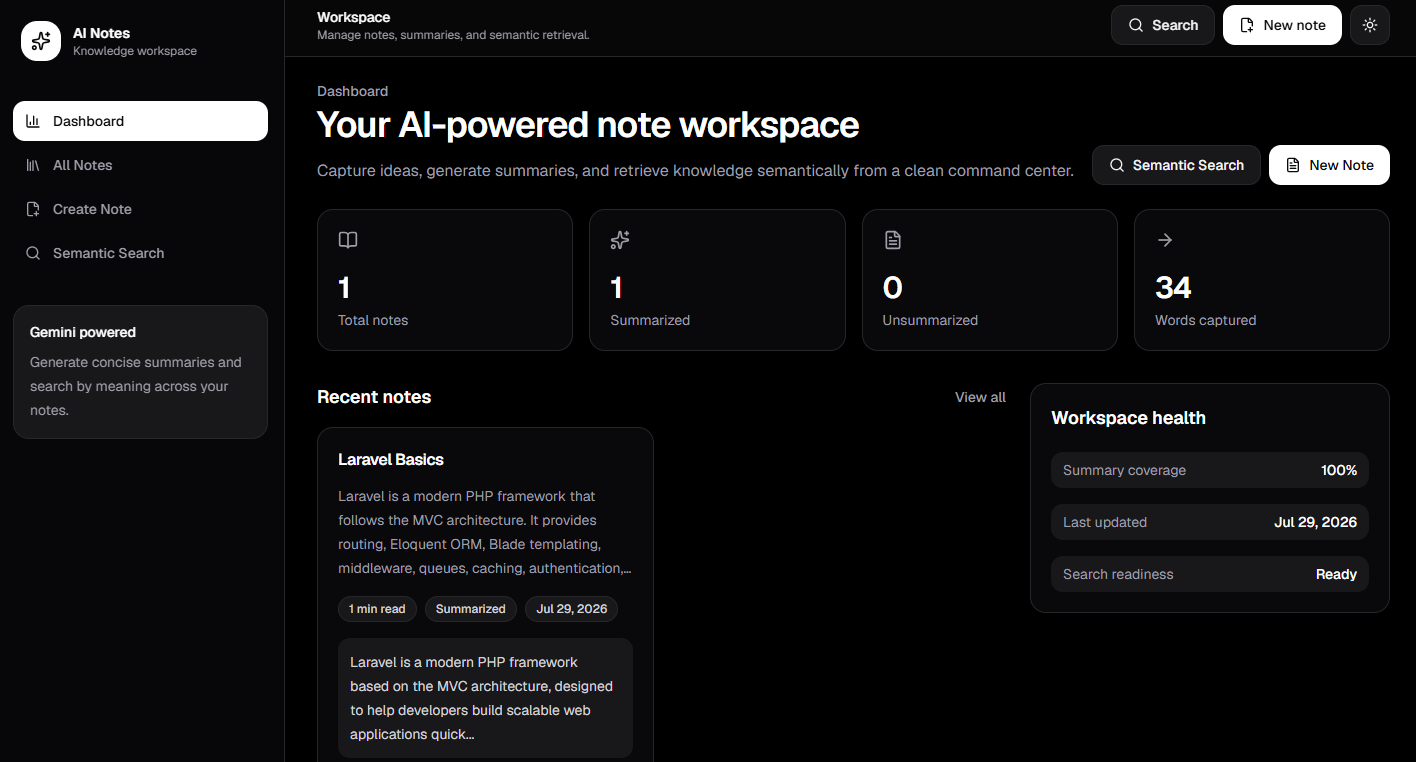
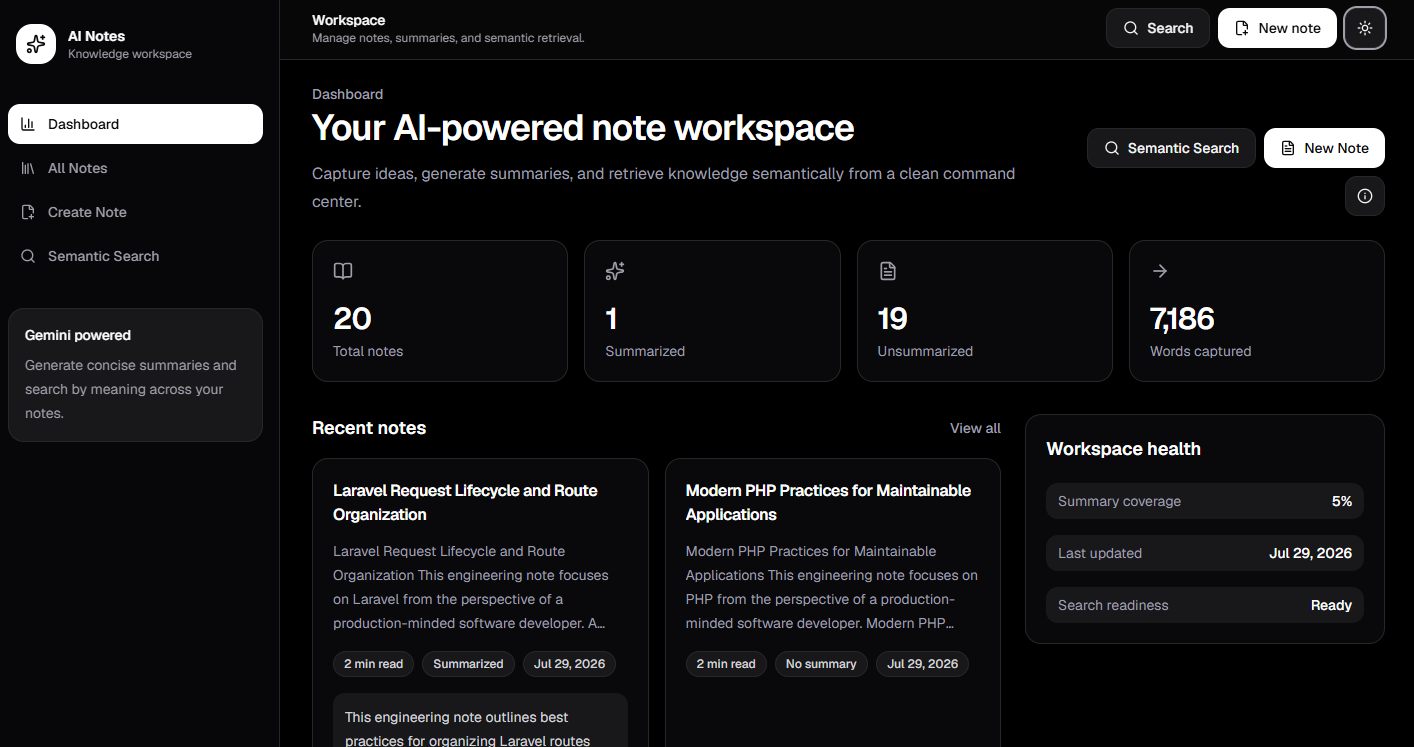
readme updated

diff --git a/README.md b/README.md
@@ -20,8 +20,8 @@ Built with **Laravel 12**, **Next.js 15**, **Google Gemini AI**, **MySQL**, and 
 ![REST API](https://img.shields.io/badge/REST_API-JSON-111827?style=for-the-badge)
 ![License](https://img.shields.io/badge/License-MIT-green?style=for-the-badge)
 
-![GitHub Stars](https://img.shields.io/github/stars/your-username/ai-notes-management-system?style=for-the-badge&logo=github)
-![GitHub Last Commit](https://img.shields.io/github/last-commit/your-username/ai-notes-management-system?style=for-the-badge&logo=github)
+![GitHub Stars](https://img.shields.io/github/stars/lucifer01430/ai-notes-management-system?style=for-the-badge&logo=github)
+![GitHub Last Commit](https://img.shields.io/github/last-commit/lucifer01430/ai-notes-management-system?style=for-the-badge&logo=github)
 
 </div>
 
@@ -508,10 +508,10 @@ Developed as part of the **NVECTA AI Internship Assignment**.
 
 | Field | Link |
 |---|---|
-| Name | Your Name |
-| LinkedIn | https://linkedin.com/in/your-profile |
-| GitHub | https://github.com/your-username |
-| Portfolio | https://your-portfolio.com |
+| Name | Harsh Pandey |
+| LinkedIn | https://www.linkedin.com/in/harshpandey0143/ |
+| GitHub | https://www.github.com/lucifer01430 |
+| Portfolio | https://lucifer01430.github.io/Portfolio/ |
 
 ---
 
@@ -522,7 +522,7 @@ This project is licensed under the **MIT License**.
 ```text
 MIT License
 
-Copyright (c) 2026 Your Name
+Copyright (c) 2026 Harsh Pandey
 
 Permission is hereby granted, free of charge, to any person obtaining a copy
 of this software and associated documentation files, to deal in the Software
@@ -538,6 +538,8 @@ modify, merge, publish, distribute, sublicense, and/or sell copies of the Softwa
 
 If you are a recruiter, interviewer, or reviewer, this repository demonstrates a full-stack AI workflow with practical product thinking, clean API design, and a polished modern frontend.
 
-⭐ Star the repository if you find it useful.
+Thank you for reviewing this project.
+
+Feedback and suggestions are always appreciated.
 
 </div>
